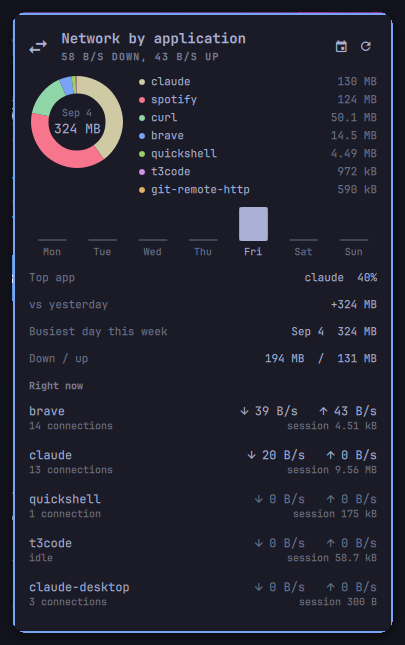
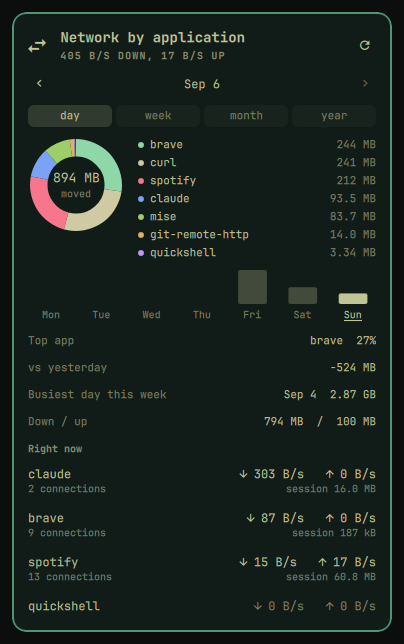
Refresh the preview for the period switcher
The old one predated the size selector, so the picture the marketplace listing
shows was a panel the plugin no longer has.

Taken from the running shell, cropped to the popup, masked to its own rounded
corners and set on a plain canvas, so no part of the desktop behind it is in
the image.

diff --git a/README.md b/README.md
@@ -2,7 +2,7 @@
 
 Which application is eating your bandwidth, live in the Omarchy bar.
 
-![The panel's day view: a day's traffic as a ring of applications, the week around it, and the live per-application rates underneath](preview.png)
+![The panel: the size selector and the day being read, that day's traffic as a ring of applications, the week around it, and the live per-application rates underneath](preview.png)
 
 Every other network widget tells you *how fast* the link is going. Siphon tells
 you *who is doing it*. Applications are ranked by what is moving right now, so
